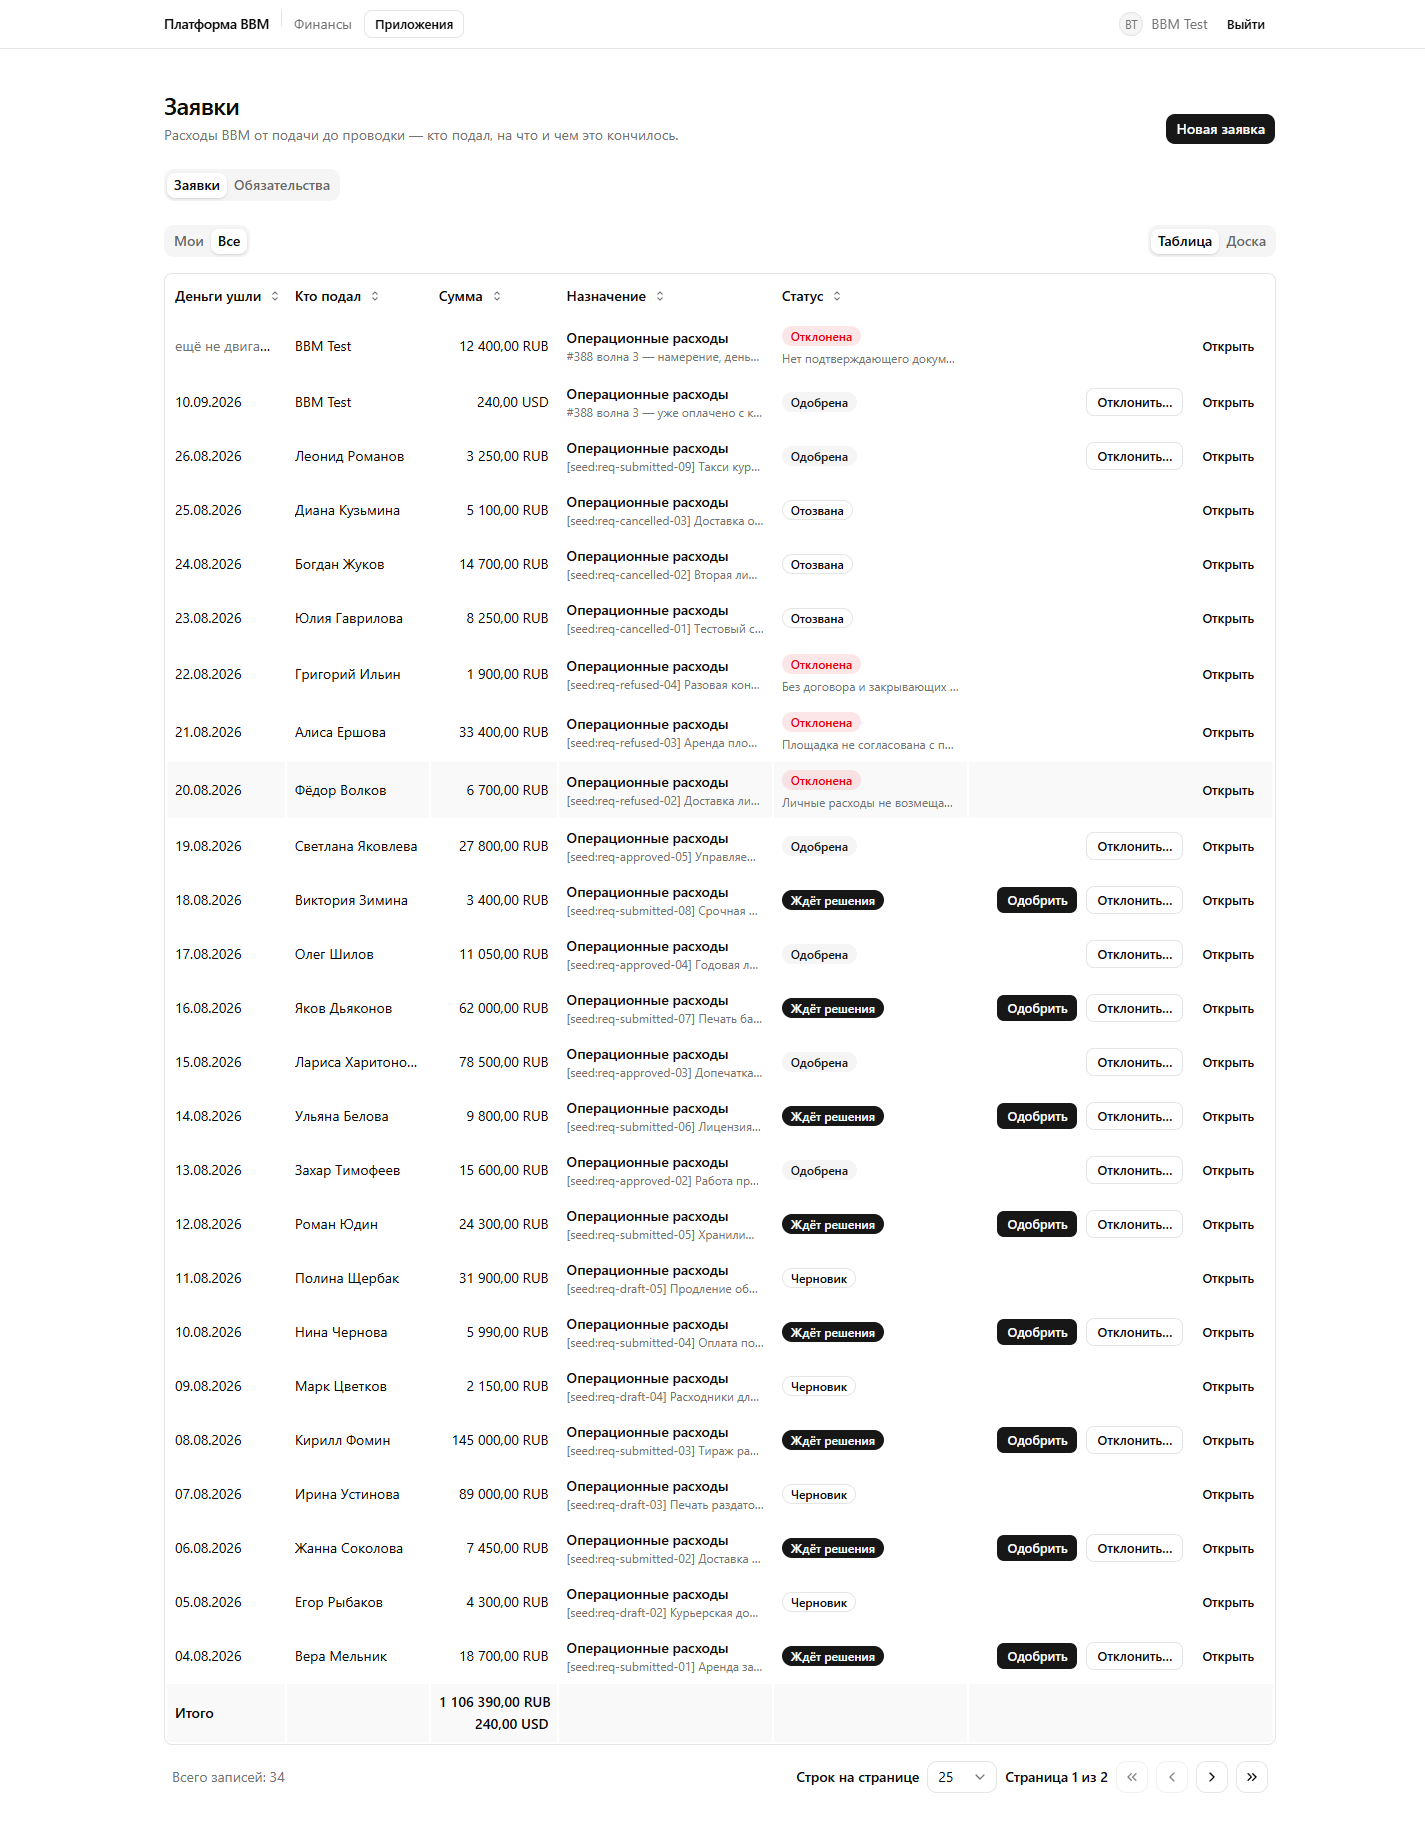
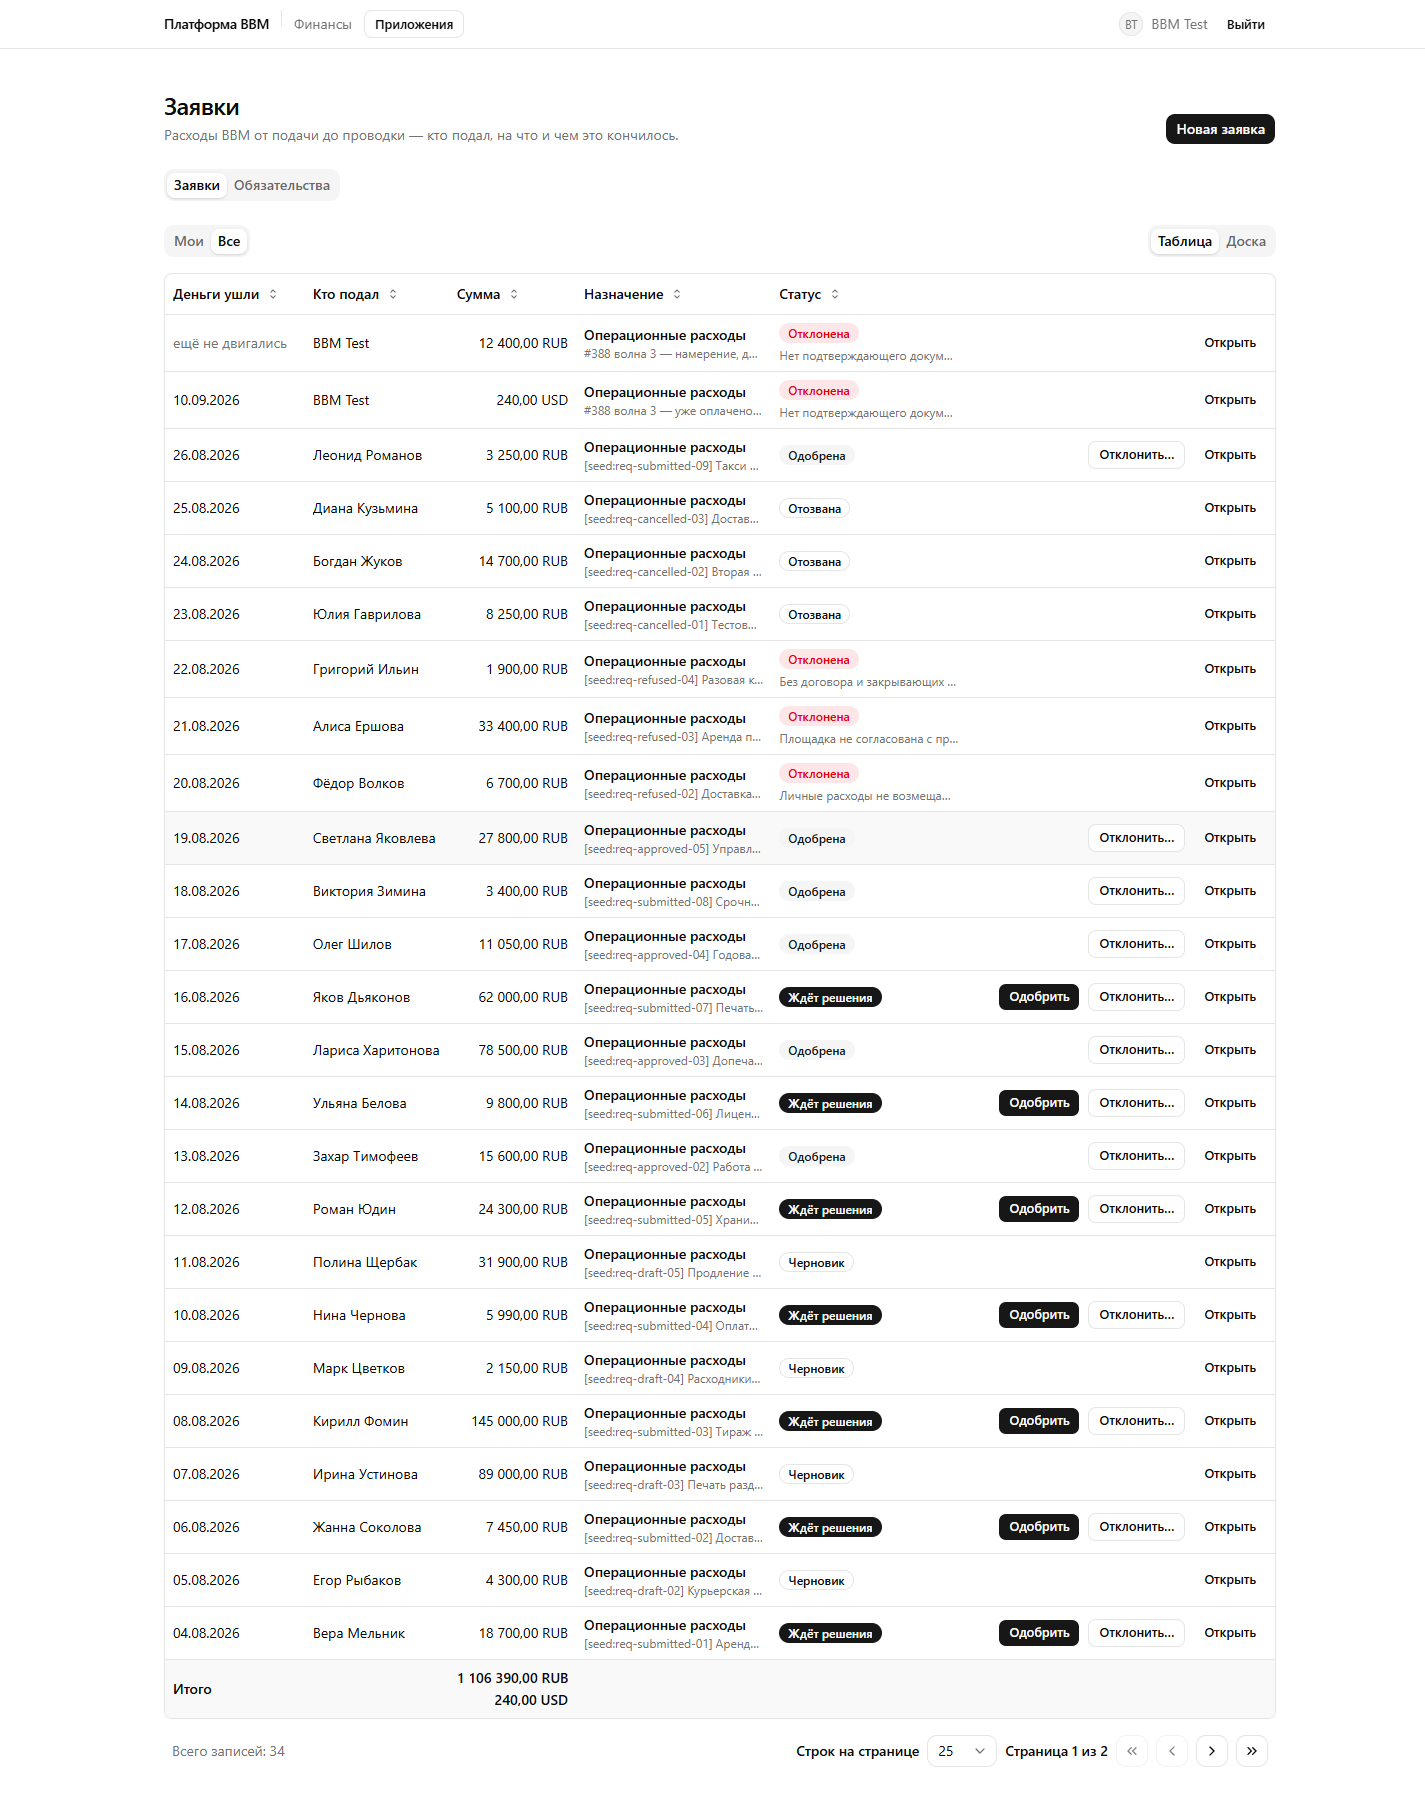
docs(evidence): #388 frame 69 re-taken after defect F on a restarted stand
The eleventh pass could not drive the refusal act: the long-lived next dev
had stopped being able to fork (dev-env.md). Restarted the lead's own
listener, re-drove step 69 with the same harness — the register is ruled
and the first cell reads whole.

Claude-Session: https://claude.ai/code/session_011kd2BsNuzjhwU6wPvr1q2h

diff --git a/docs/evidence/388/README.md b/docs/evidence/388/README.md
@@ -826,15 +826,17 @@ separator now occupies.
 approved (step 67, toast «Заявка одобрена. Заявка №13»). Nothing else was
 written.
 
-**Frame 69 could NOT be re-taken at this head, and remains the ninth pass's.**
-Its step refuses a request from a row, and the mutation answered `500` on two
-consecutive attempts with `Jest worker encountered 2 child process exceptions,
-exceeding retry limit` — the long-lived `next dev` process on this stand has
-stopped being able to fork, the failure mode `.claude/rules/dev-env.md` names
-and whose only remedy is restarting THAT process (the lead's stand, the lead's
-call — not this task's to kill). It is the PROCESS, not this diff: every
-read-only state on the same stand, in the same run, rendered and measured
-cleanly, and the approve act of step 67 went through before the fork budget ran
-out. So 69 still carries the ninth pass's clipped «ещё не двига…» cell **and**
-the pre-fix unruled table; it is the one frame of this folder that does not show
-the head it sits next to.
+**Frame 69 was re-taken in a TWELFTH, one-frame pass at the same fix (`abc51ea`),
+after the stand was restarted.** The eleventh pass could not take it: its refusal
+mutation answered `500` twice with `Jest worker encountered 2 child process
+exceptions, exceeding retry limit` — the long-lived `next dev` had stopped being
+able to fork, the failure `.claude/rules/dev-env.md` names, whose remedy is
+restarting THAT process. The lead killed its own listener (PID 21528) and started
+a fresh one on the same port from this worktree; the same driver then refused
+request №44 from its row with a reason and shot 69 desktop-light: «Отклонена» plus
+the reason inside the status cell, `border-collapse: collapse`, the header ruled,
+24/24 body rows ruled, container 1110/1110 with `overflow=false`, and the first
+cell now reads «ещё не двигались» whole — the ninth-pass clip is gone from the
+last frame that carried it. Row changed in `platform_388` by that pass: **#44**
+refused. It is the PROCESS that failed, not the diff: the restarted stand ran the
+same mutation on the first attempt.
